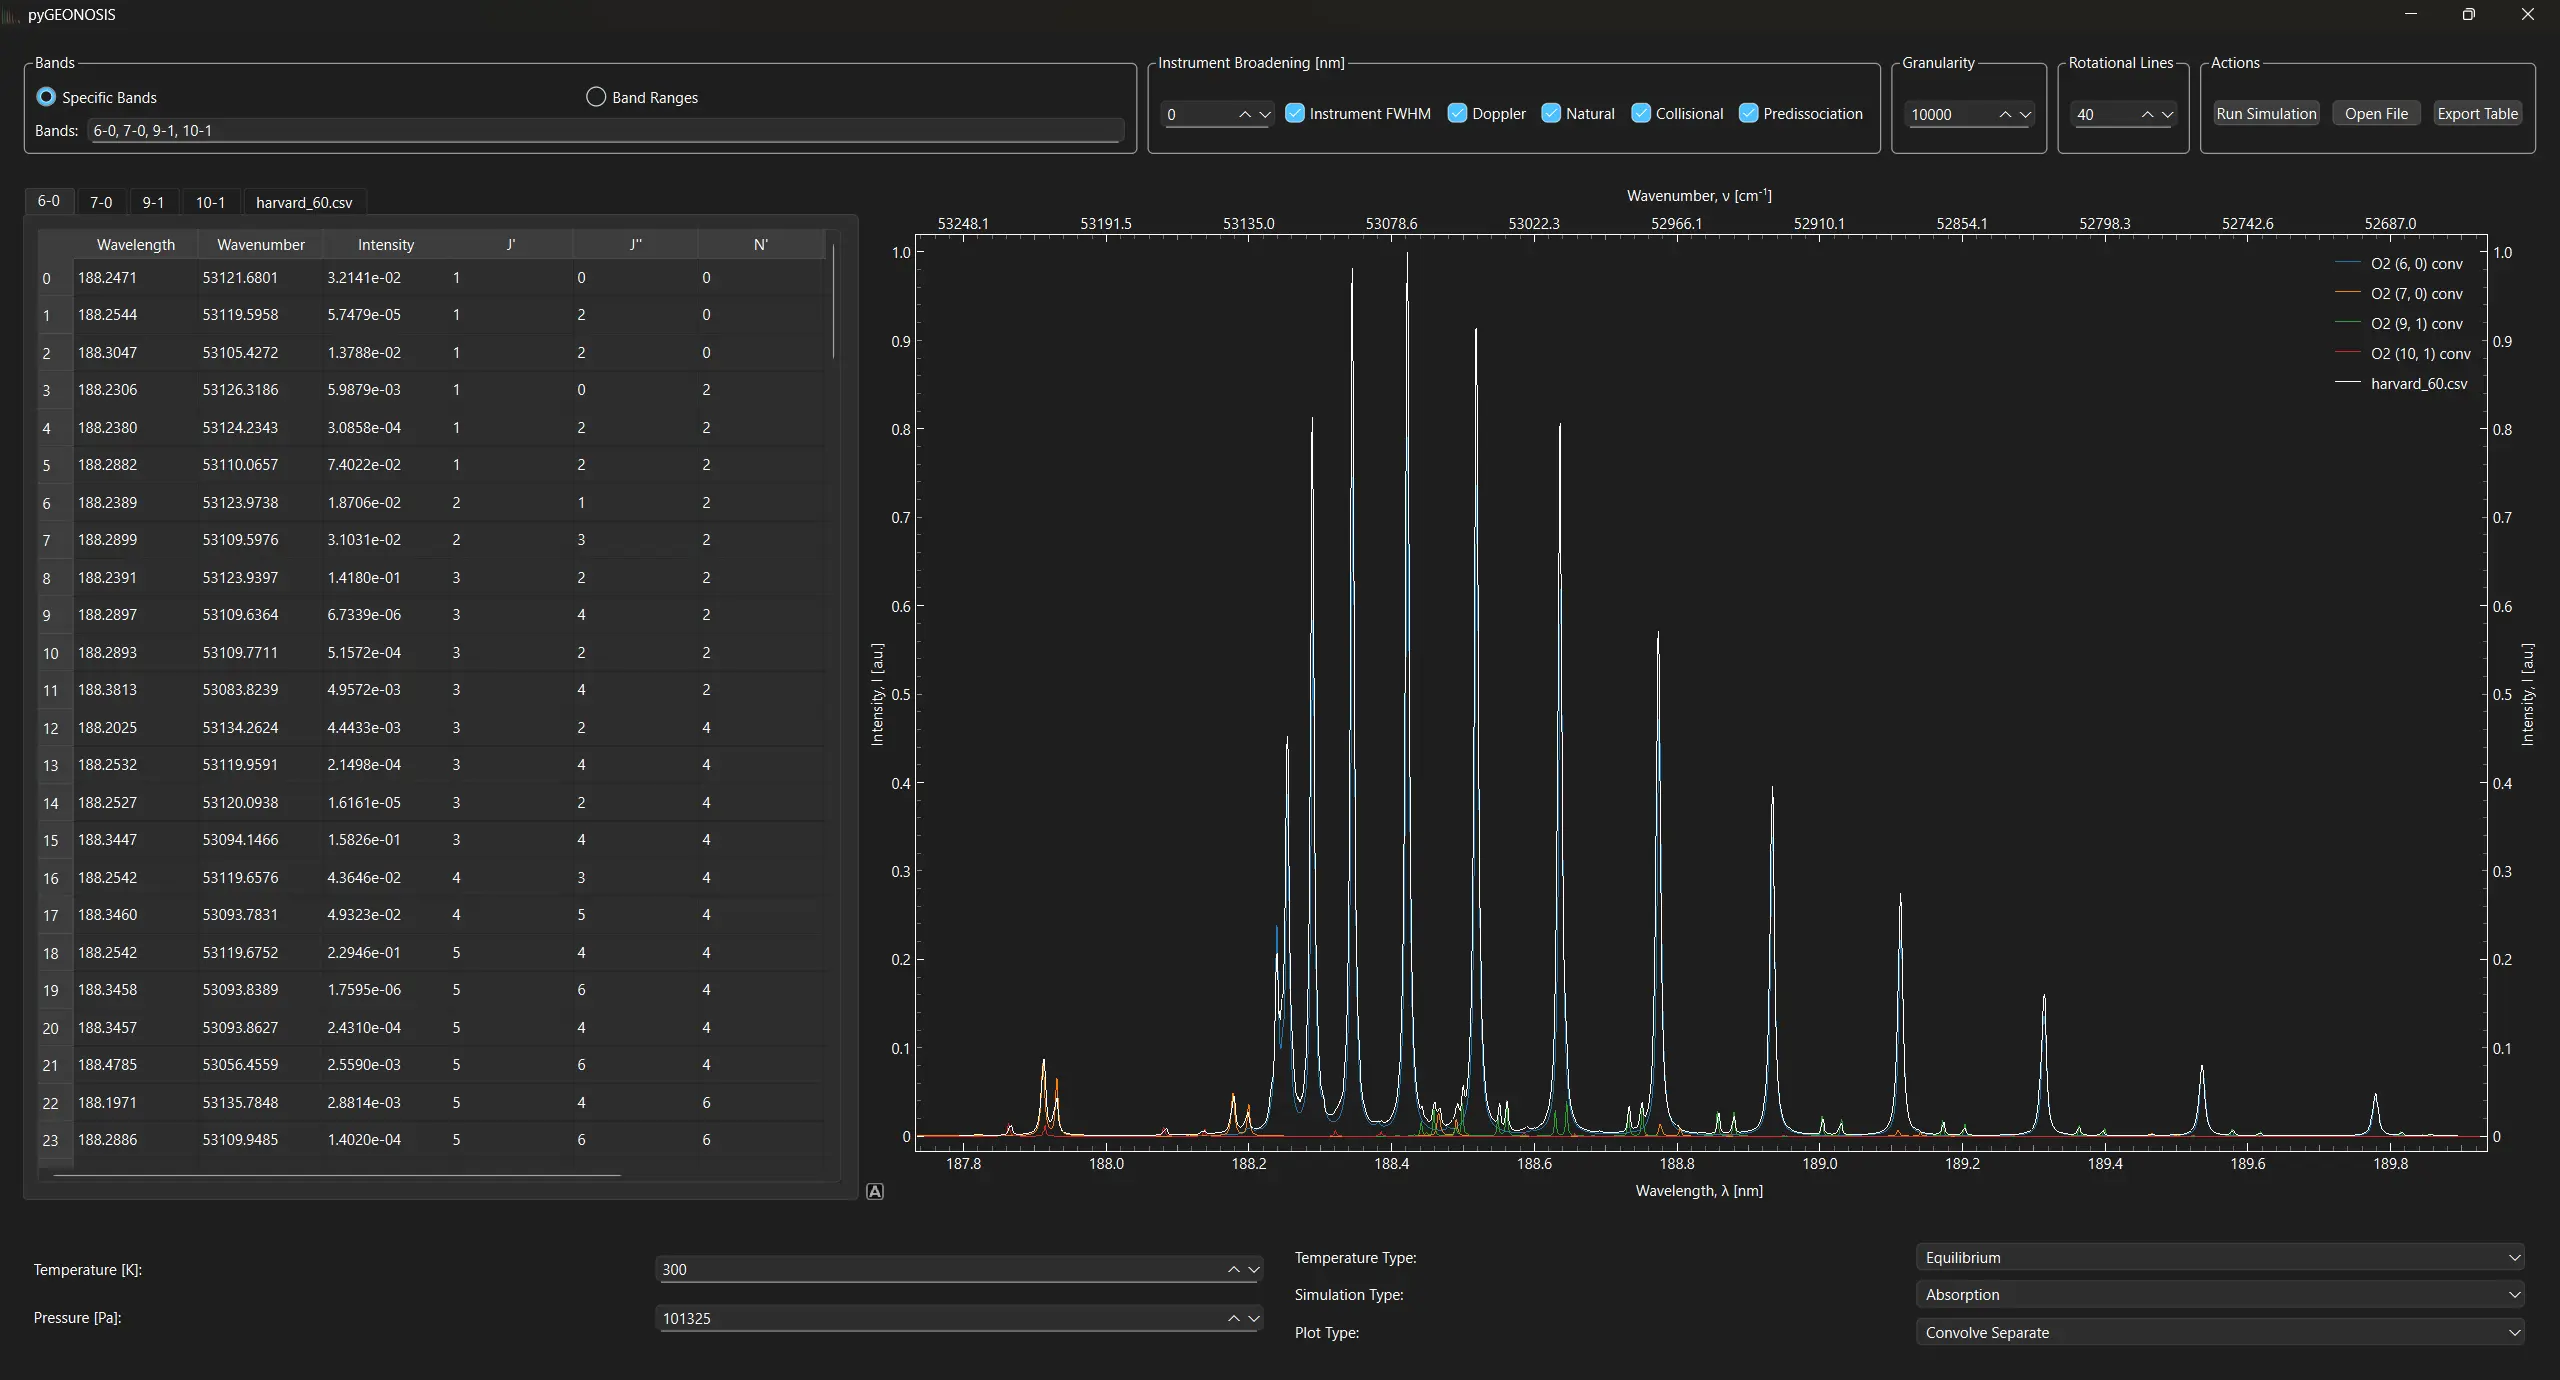
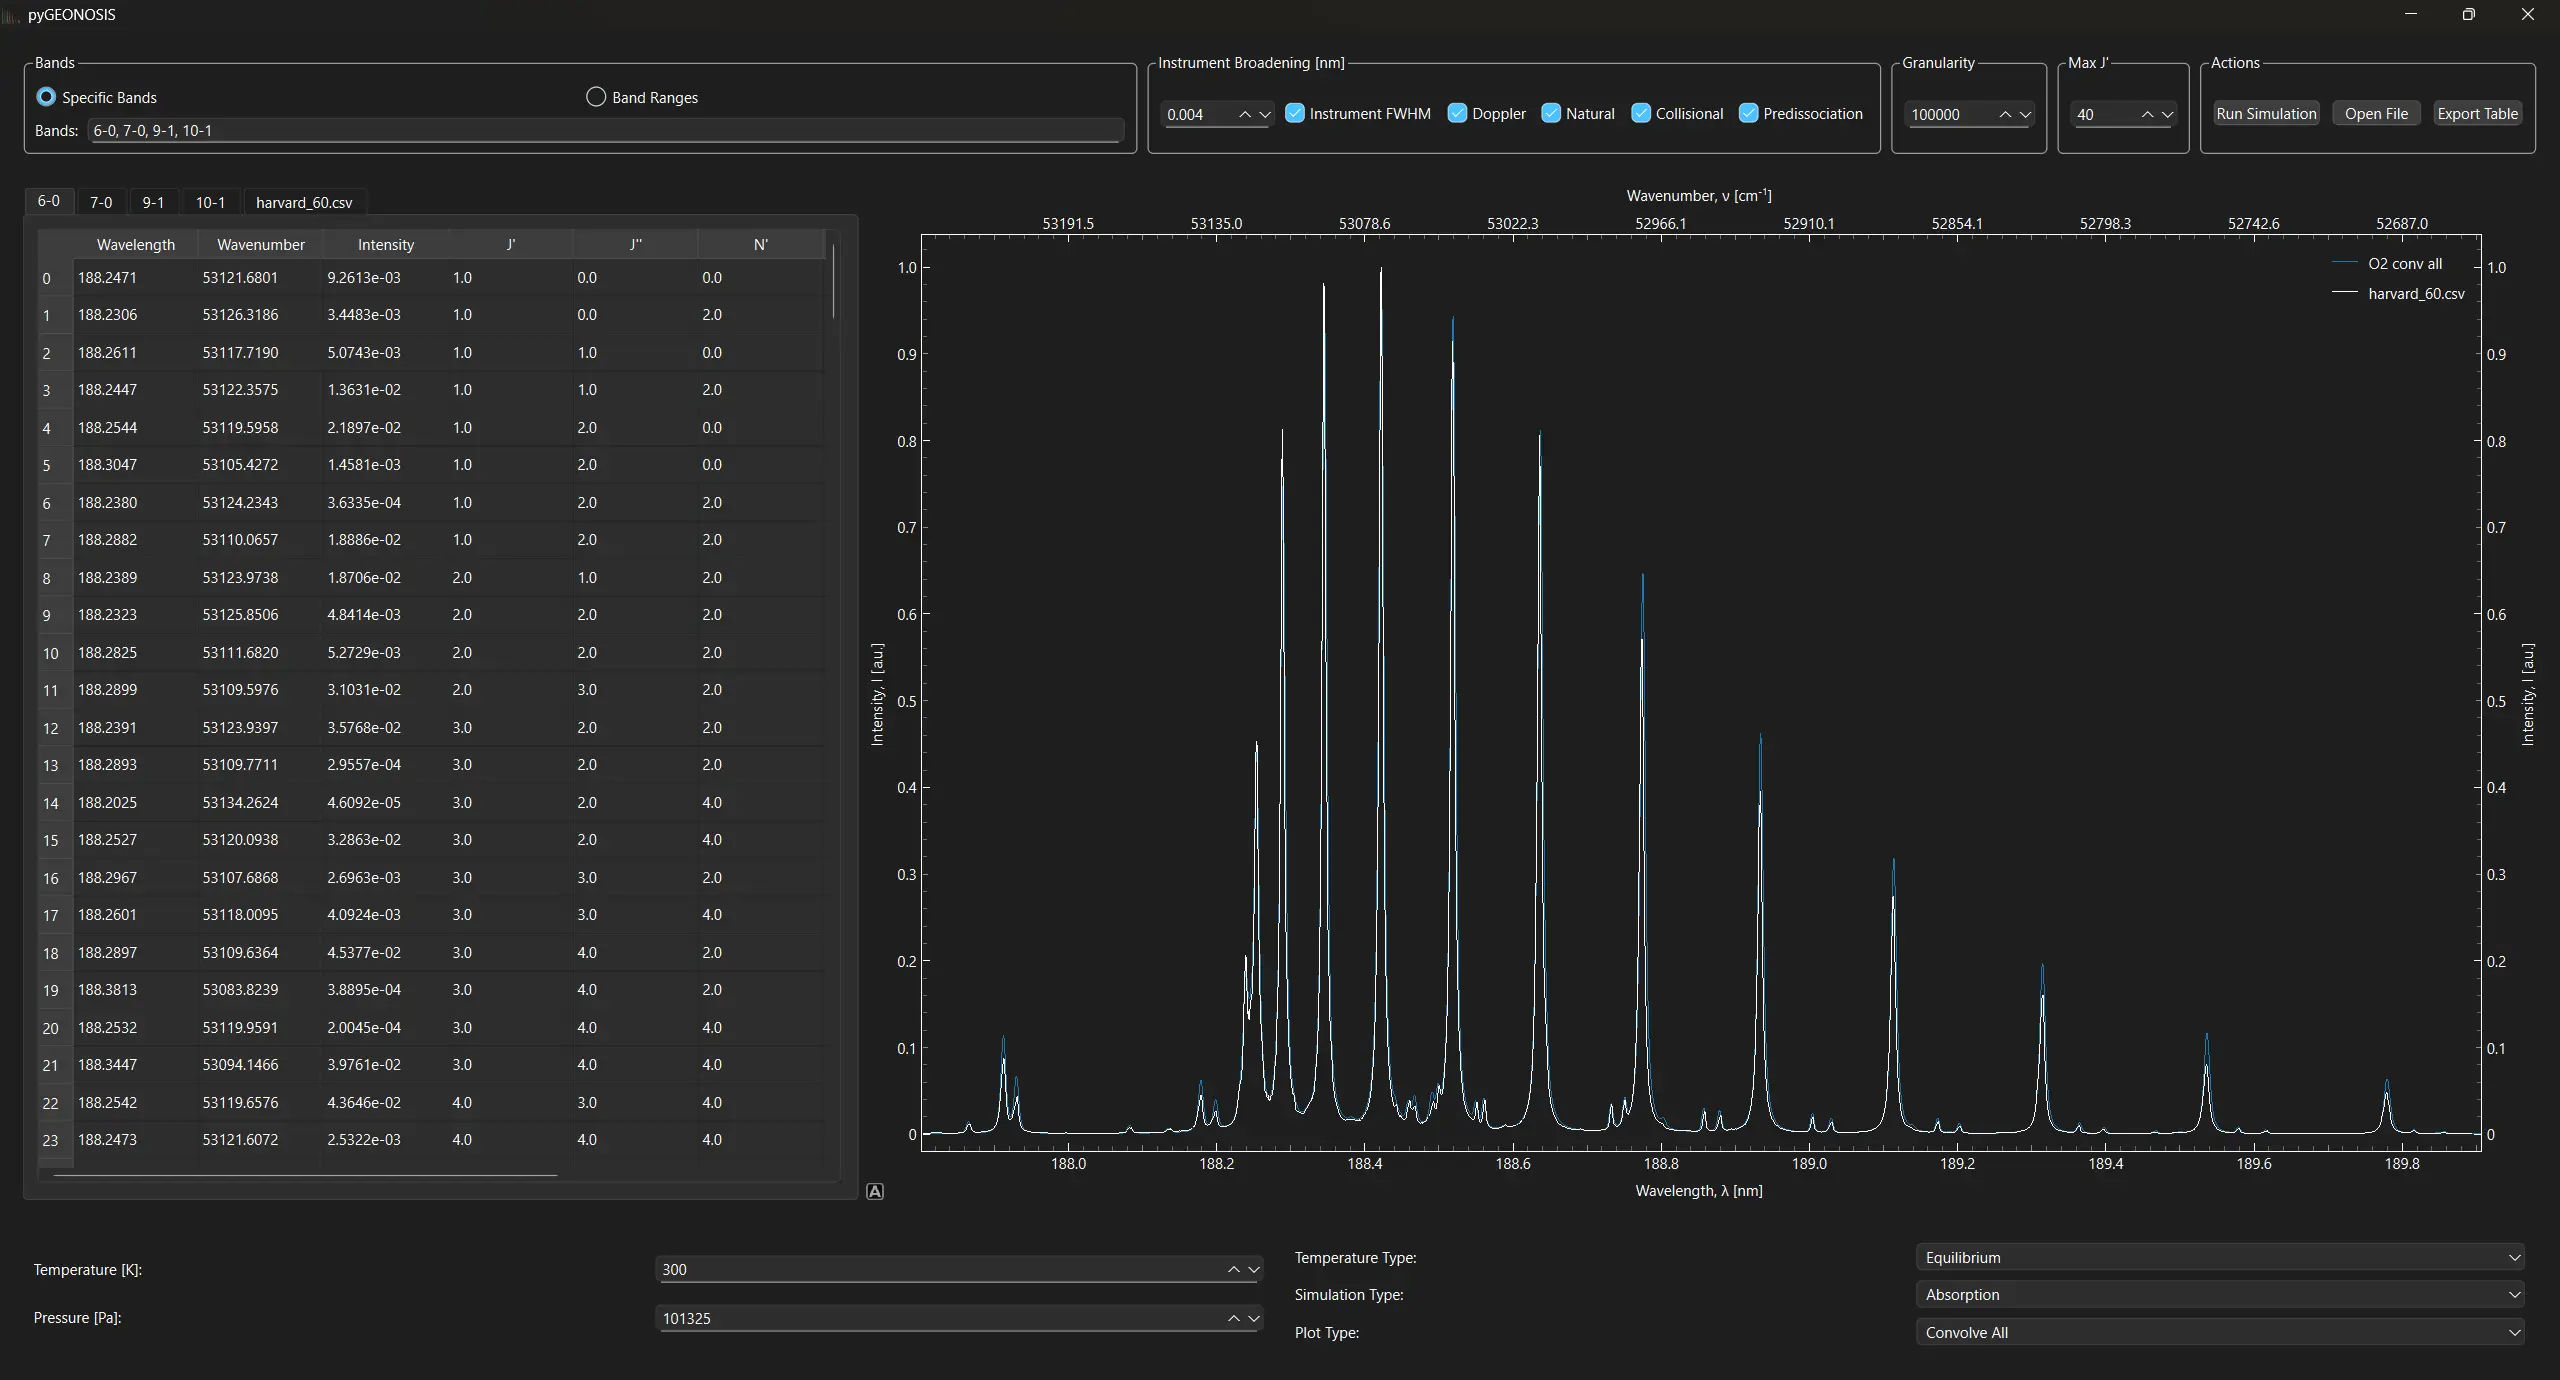
docs: improve validation examples

diff --git a/README.md b/README.md
@@ -1,6 +1,6 @@
 # pyGEONOSIS
 
-Python GEnerated Oxygen and Nitric Oxide SImulated Spectra (pyGEONOSIS) is a tool for simulating the Schumann–Runge (B-X) bands of molecular oxygen, and eventually γ (A-X) bands of nitric oxide. Built using NumPy, Polars, PySide6, PyQtGraph, and SciPy, pyGEONOSIS is designed to be easily understood and modified.
+Python GEnerated Oxygen and Nitric Oxide SImulated Spectra (pyGEONOSIS) is a tool for simulating the Schumann–Runge (B-X) bands of molecular oxygen, and eventually the $\gamma$ (A-X) bands of nitric oxide. Built using NumPy, Polars, PySide6, PyQtGraph, and SciPy, pyGEONOSIS is designed to be easily understood and modified.
 
 The capabilities of this tool are briefly summarized below. More detailed theory and notation are explained in the included document.
 
@@ -64,7 +64,7 @@ Four plot types are currently implemented:
 
 ## Validation with Experimental Data
 
-Data for molecular oxygen from the [Harvard-Smithsonian Center for Astrophysics](https://www.cfa.harvard.edu/) is used to verify the output of pyGEONOSIS. Data for the Schumann–Runge bands is available [here](https://lweb.cfa.harvard.edu/amp/ampdata/o2pub92/S-R.html) at 300 K. The (2, 0) and (6, 0) experimental band data were chosen since they contain lines belonging to multiple vibrational bands. Simulated vibrational bands were convolved separately to make the distinction between bands more clear; improved agreement can be obtained by convolving all bands together.
+Data for molecular oxygen from the [Harvard-Smithsonian Center for Astrophysics](https://www.cfa.harvard.edu/) is used to verify the output of pyGEONOSIS. Data for the Schumann–Runge bands is available [here](https://lweb.cfa.harvard.edu/amp/ampdata/o2pub92/S-R.html) at 300 K. The (2, 0) and (6, 0) experimental band data were chosen since they contain lines belonging to multiple vibrational bands. The specific bands chosen to emulate the experimental data are shown in the at the top left of the GUI in each image.
 
 ### (2, 0) Band Validation
 
